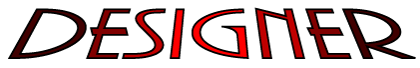
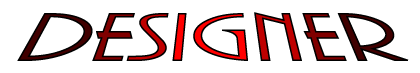
style update

diff --git a/css/index.css b/css/index.css
@@ -250,13 +250,13 @@ header h1 {
 #devHand {
 	-webkit-transform: translate(-1000px, 0px);-ms-transform: translate(-1000px, 0px);transform: translate(-1000px, 0px);
 	-webkit-transition-duration: 1s;transition-duration: 1s;
-	-webkit-filter: saturate(9);filter: saturate(9);
+	-webkit-filter: saturate(2);filter: saturate(2);
 }
 
 #desHand {
 	-webkit-transform: translate(1000px, 0px);-ms-transform: translate(1000px, 0px);transform: translate(1000px, 0px);
 	-webkit-transition-duration: 1s;transition-duration: 1s;
-	-webkit-filter: saturate(2);filter: saturate(2);
+	/* -webkit-filter: saturate(2);filter: saturate(2); */
 }
 
 .headerTitle {
@@ -341,11 +341,11 @@ section p {
 
 #leoLedge {
 	width: 110%;
-	height: 25px;
+	height: 15px;
 	transform: skewX(35deg);
 	margin-left: -15px;
 	margin-bottom: 75px;
-	box-shadow: 0px 10px 10px rgba(0,0,0,0.3);
+	box-shadow: 0px 10px 10px rgba(0,0,0,0.3), 0px -10px 10px rgba(0,0,0,0.3) inset;
 }
 
 .projGitImg {

diff --git a/js/index.js b/js/index.js
@@ -99,7 +99,7 @@ set("contactGithubLink", "url('img/github.png')", "inline-block", "50px 50px", "
 set("contactLinkedinLink", "url('img/linkedin.png')", "inline-block", "50px 50px", "no-repeat", "center");
 
 // SET PROJECTS IMAGES
-set("projectsTitle", "url('img/backgrounds/leoSm.jpg')", "block", "250px 50%", "repeat");
+set("projectsTitle", "url('img/backgrounds/leoSm.jpg')", "block", "250px 100%", "repeat");
 set("leoLedge", "url('img/backgrounds/leoLedge.jpg')", "block", "250px 100%", "repeat");
 set("projectImg2", "url('img/projectImgs/gallery.png')", "block", "100% 100%", "no-repeat");
 set("projectImg3", "url('img/projectImgs/odom.png')", "block", "100% 100%", "no-repeat");

diff --git a/index.html b/index.html
@@ -51,7 +51,7 @@
 						<div id="yinyang"></div>
 					</div>
 				</div>
-				<img src="img/devHand.png" alt="Hand of a Developer" id="devHand" class="headerImg">
+				<img src="img/devHand2.png" alt="Hand of a Developer" id="devHand" class="headerImg">
 				<img src="img/desHand.png" alt="Hand of a Designer" id="desHand" class="headerImg">
 				<br>
 				<img src="img/developer.png" alt="Developer" id="dev" class="headerTitle">
